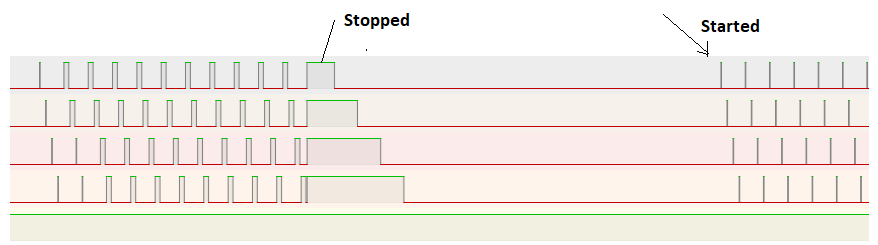
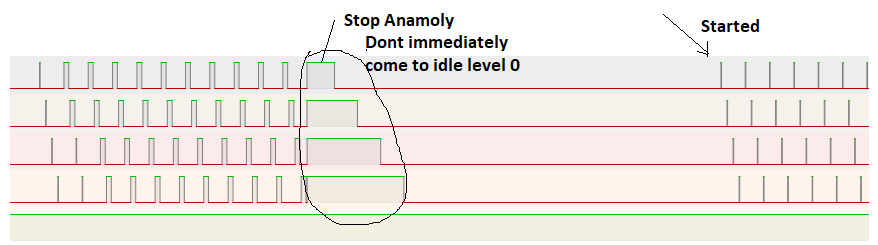
fix: stop anmoly correctly explained

diff --git a/README.md b/README.md
@@ -23,12 +23,12 @@ Instead of switching all channels simultaneously, this component distributes swi
 
 ## Using ESP-IDF Component Manager (Recommended)
 ```bash
-idf.py add-dependency "embedblocks/interleaved_pwm^0.2.0"
+idf.py add-dependency "embedblocks/interleaved_pwm^0.2.1"
 ```
 Or in your project's `idf_component.yml`:
 ```yaml
 dependencies:
-  embedblocks/interleaved_pwm: "^0.2.0"
+  embedblocks/interleaved_pwm: "^0.2.1"
 ```
 
 ---
@@ -132,9 +132,9 @@ PWM_DESTROY(&pwm);
 
 # Limitations
 
-![Stop Problem](https://raw.githubusercontent.com/embedblocks/interleaved-pwm/v0.2.0/docs/1st-cycle-fixed.png)
+![Stop Problem](https://raw.githubusercontent.com/embedblocks/interleaved-pwm/v0.2.1/docs/1st-cycle-fixed.png)
 
-- The stop is delayed.
+- The stop doesnt instantly bring lines to idle position 0, the lines remain high for some duration.
 - Single instance per application in the current release
 - Timer 0 is always used — not configurable
 - 13-bit resolution cap (sufficient for all supported chips)

diff --git a/CHANGELOG.md b/CHANGELOG.md
@@ -2,8 +2,15 @@
 
 All notable changes to this project will be documented in this file.
 
----
 
+---
+## [0.2.1] - 2026-03-28
+
+### Fixed
+    Readme illustration of stop anomly correctly explained
+
+
+---
 ## [0.2.0] - 2026-03-28
 
 ### Fixed
